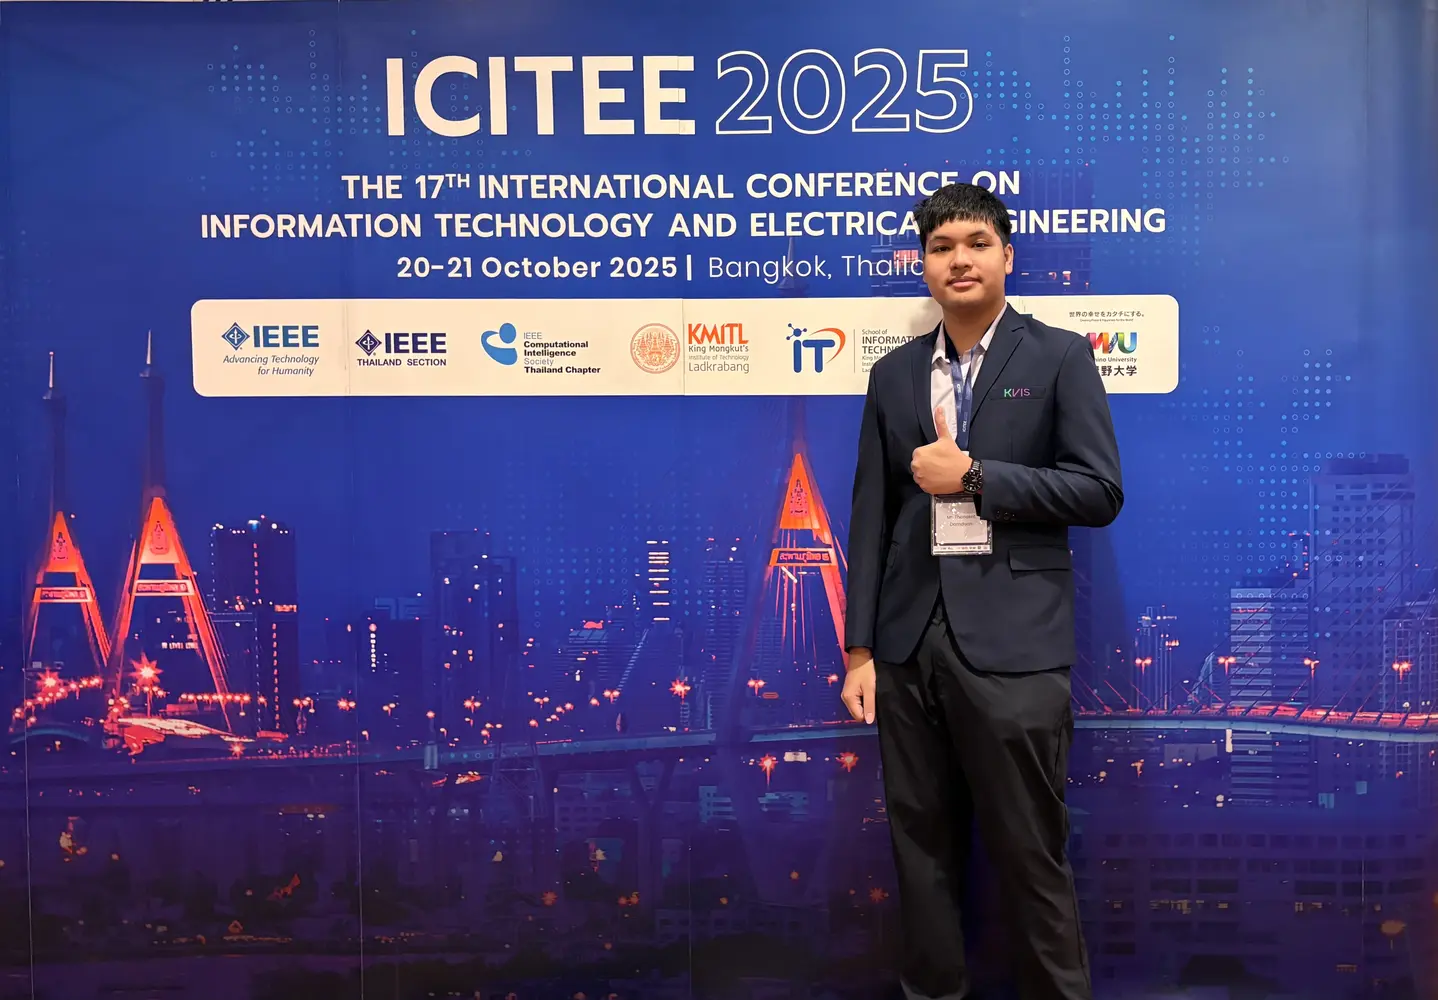
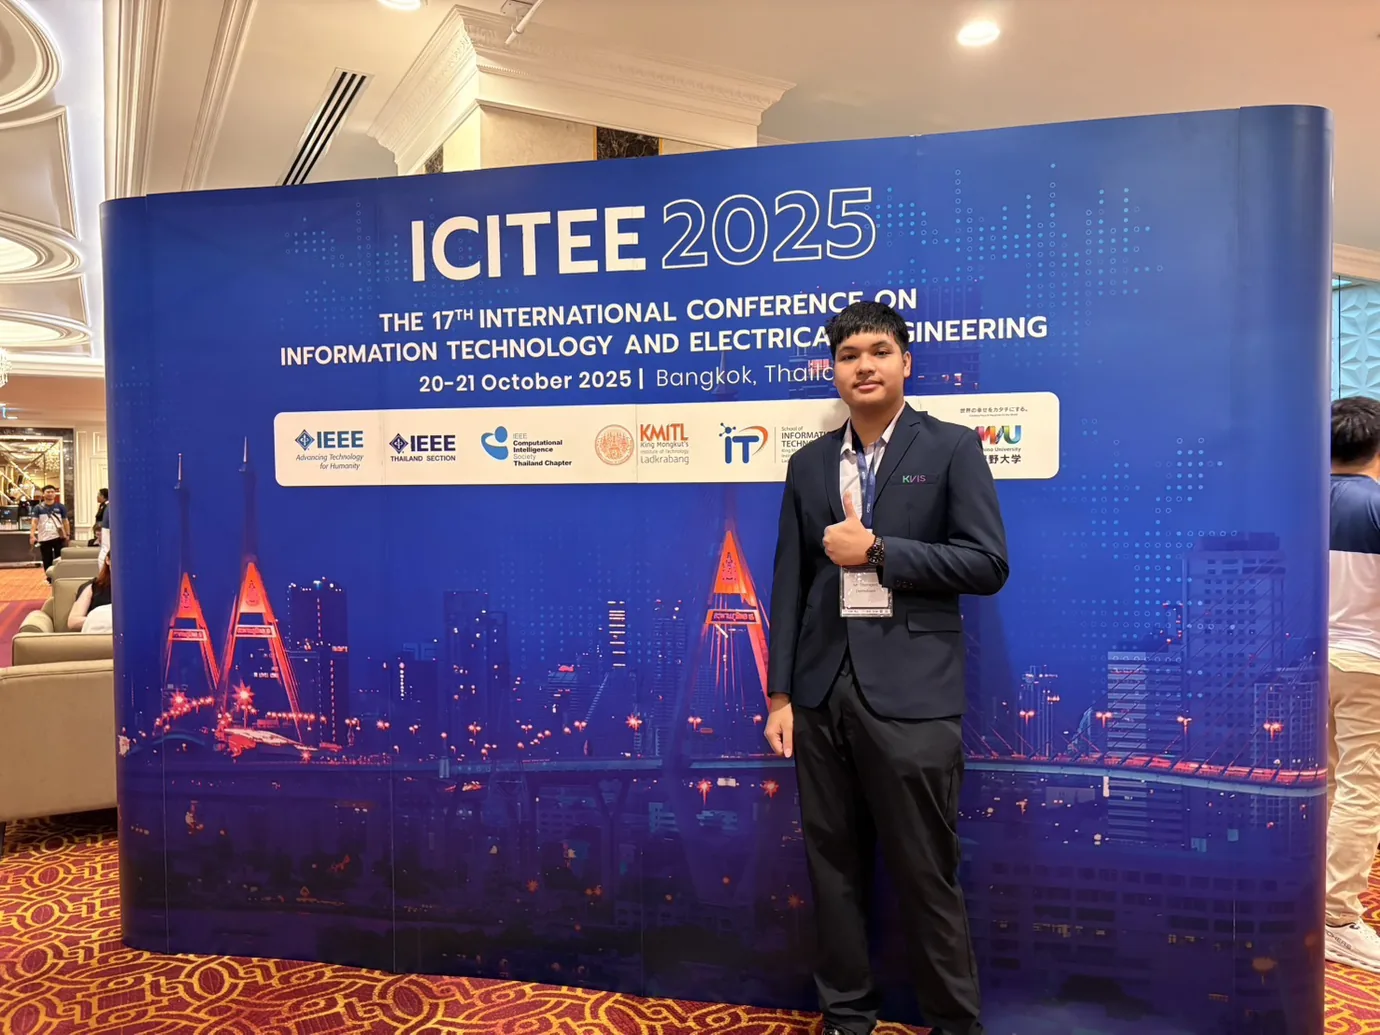
Showcase Lumineth, paginate work and refresh mGANs photos

diff --git a/content/journeys.js b/content/journeys.js
@@ -32,11 +32,11 @@ export const journeys = {
     role: "Pasatorn Soikiri and I share first authorship. I worked on the model that spots synthetic speech.",
     learned: "I learned to represent speech as mel spectrograms and use reconstruction errors to score how unusual a recording is. Comparing ROC AUC across two datasets showed me how much a detector’s performance can depend on the recordings it sees.",
     frames: [
-      { image: "mgans.svg", label: "Results", alt: "eD-AnoGAN scores of 0.9211 ROC AUC on WaveFake and 0.8428 on ASVspoof2019 LA", caption: "Closer to 1 is better. The score drops on a different set of recordings.", wide: true },
       { image: "mgans-paper-architecture.webp", label: "Model architectures", alt: "The paper’s published architectures for eD-AnoGAN and RES-MGANomaly", caption: "Model architectures from Figure 1. © 2025 IEEE.", wide: true },
       { image: "mgans-paper-reconstructions.webp", label: "Original and rebuilt audio", alt: "Input and reconstructed speech spectrograms for four model variants", caption: "Original and rebuilt sound patterns from Figure 3. © 2025 IEEE.", wide: true },
       { image: "mgans-talk.webp", label: "Presenting the work", alt: "ICITEE presentation with the model architecture on screen", caption: "Presenting the architecture at ICITEE 2025." },
-      { image: "mgans-venue.webp", label: "ICITEE 2025", alt: "Damduan Thanakrit beside the ICITEE conference backdrop", caption: "ICITEE 2025." },
+      { image: "mgans-venue.webp", label: "ICITEE 2025", alt: "Damduan Thanakrit beside the ICITEE conference backdrop", caption: "ICITEE 2025 in Bangkok." },
+      { image: "mgans-certificate.webp", label: "Presenter certificate", alt: "ICITEE 2025 certificate recognising Damduan Thanakrit as a presenter of the paper", caption: "Presenter certificate for the paper at ICITEE 2025.", wide: true },
     ],
   },
   sleeppilot: {
@@ -73,6 +73,16 @@ export const journeys = {
     learned: "I practised analysing clues, testing one hypothesis at a time, and sharing findings with teammates. The time limit taught me to recognise when to try a different approach or move to another challenge.",
     frames: [
       { image: "sentctf-certificate.webp", label: "Third-place certificate", alt: "Damduan Thanakrit’s SentCTF 2026 third-place certificate", caption: "My third-place certificate.", wide: true },
+    ],
+  },
+  lumineth: {
+    about: "Lumineth is a wearable prototype for people with visual impairments. A user can ask it to find an everyday object or describe what’s in front of them. The prototype combines a camera, a voice interface, and computer vision, with the wearable and server communicating over WebSockets.",
+    role: "Pasatorn Soikiri and I represented KVIS at SISTEMIC 2025. I presented our prototype, and our team earned bronze in the STEM Innovation Challenge.",
+    learned: "I learned how a wearable can communicate with a computer vision server in real time, and how to make features like finding objects usable through voice.",
+    frames: [
+      { image: "lumineth-demo.webp", label: "Live demonstration", alt: "A team member wearing the Lumineth headset while the team demonstrates the prototype to visitors", caption: "Demonstrating the wearable at SISTEMIC 2025.", wide: true },
+      { image: "lumineth-booth.webp", label: "Project booth", alt: "Two team members with the Lumineth headset and glove at the SISTEMIC project booth", caption: "Our team with the prototype at the project booth." },
+      { image: "lumineth-bronze.webp", label: "Bronze award", alt: "The Lumineth team accepting bronze on stage at SISTEMIC 2025", caption: "Bronze in the SISTEMIC STEM Innovation Challenge." },
     ],
   },
 };

diff --git a/app/gallery.jsx b/app/gallery.jsx
@@ -2,16 +2,45 @@
 
 import { sitePath } from "../content/site-path";
 
-import { useState } from "react";
-import { projects } from "../content/projects";
+import { useEffect, useState } from "react";
+import { projects, workPagePath, workPageSize } from "../content/projects";
+
+const pageCount = Math.ceil(projects.length / workPageSize);
+
+function pageFromLocation() {
+  const page = Number(new URLSearchParams(window.location.search).get("page"));
+  return Number.isInteger(page) && page >= 1 && page <= pageCount ? page : 1;
+}
 
 export default function Gallery() {
   const [view, setView] = useState("Gallery");
+  const [page, setPage] = useState(1);
+  const start = (page - 1) * workPageSize;
+  const end = Math.min(start + workPageSize, projects.length);
+  const range = start + 1 === end ? end : [start + 1, end].join("–");
+
+  useEffect(() => {
+    const syncPage = () => setPage(pageFromLocation());
+    syncPage();
+    window.addEventListener("popstate", syncPage);
+    return () => window.removeEventListener("popstate", syncPage);
+  }, []);
+
+  function changePage(event, nextPage) {
+    if (event.metaKey || event.ctrlKey || event.shiftKey || event.altKey) return;
+    event.preventDefault();
+    if (nextPage === page) return;
+
+    window.history.pushState(null, "", event.currentTarget.href);
+    setPage(nextPage);
+    document.getElementById("work-title").focus({ preventScroll: true });
+    document.getElementById("work").scrollIntoView();
+  }
 
   return (
     <section id="work" aria-labelledby="work-title">
       <header className="sectionhead">
-        <h2 id="work-title">Selected work</h2>
+        <h2 id="work-title" tabIndex={-1}>Selected work</h2>
         <fieldset className="view">
           <legend>Project view</legend>
           {["Gallery", "List"].map((name) => (
@@ -27,7 +56,7 @@ export default function Gallery() {
         </fieldset>
       </header>
       <ul className={view === "List" ? "catalog list" : "catalog"}>
-        {projects.map((project) => (
+        {projects.slice(start, end).map((project) => (
           <li key={project.slug}>
             <a className="project" href={sitePath(`/work/${project.slug}/`)}>
               <figure className={`cover ${project.slug}`}>
@@ -41,6 +70,25 @@ export default function Gallery() {
           </li>
         ))}
       </ul>
+      {pageCount > 1 && (
+        <nav className="work-pagination" aria-label="Selected work pages">
+          <p role="status">{range} of {projects.length} projects</p>
+          <ul>
+            {Array.from({ length: pageCount }, (_, index) => index + 1).map((number) => (
+              <li key={number}>
+                <a
+                  href={sitePath(workPagePath(number))}
+                  aria-label={`Page ${number}`}
+                  aria-current={page === number ? "page" : undefined}
+                  onClick={(event) => changePage(event, number)}
+                >
+                  {number}
+                </a>
+              </li>
+            ))}
+          </ul>
+        </nav>
+      )}
     </section>
   );
 }

diff --git a/app/detail.css b/app/detail.css
@@ -21,6 +21,7 @@
   gap: 1.5rem;
   margin-block: 2rem 3rem;
 }
+.journey.lumineth { grid-template-columns: minmax(0, 1fr) minmax(0, 1.85fr); }
 .journey-frame {
   background: var(--frame-surface, var(--surface));
   padding: clamp(.75rem, 2vw, 1.75rem);
@@ -59,6 +60,7 @@
 .cover.gokila { --cover-surface: #d4e5df; }
 .cover.sentctf { padding: 0; --cover-surface: #dce7f0; }
 .cover.sentctf img { object-position: center 52%; box-shadow: none; }
+.cover.lumineth { --cover-surface: #e6d4d7; }
 .cv { max-width: 67rem; }
 .cv h1 { font-size: clamp(2.9rem, 7vw, 6rem); }
 .cv-grid {
@@ -220,6 +222,7 @@
 [data-project="luckdee"] { --showcase-surface: #f0e5c8; --showcase-accent: #816036; }
 [data-project="gokila"] { --showcase-surface: #d4e5df; --showcase-accent: #167267; }
 [data-project="sentctf"] { --showcase-surface: #dce7f0; --showcase-accent: #2e5c83; }
+[data-project="lumineth"] { --showcase-surface: #e6d4d7; --showcase-accent: #813b59; }
 @media (max-width: 700px) {
   .showcase-index ul { grid-template-columns: repeat(auto-fit, minmax(min(100%, 6rem), 1fr)); }
   .showcase-index a { font-size: .8rem; }
@@ -240,6 +243,7 @@
   .cover.luckdee, [data-project="luckdee"] { --project-mat: #6c532b; }
   .cover.gokila, [data-project="gokila"] { --project-mat: #325e4c; }
   .cover.sentctf, [data-project="sentctf"] { --project-mat: #335d7a; }
+  .cover.lumineth, [data-project="lumineth"] { --project-mat: #694251; }
   .cover,
   .case[data-project] :is(.plate, .journey-frame, .showcase-index img) {
     background: var(--project-mat, var(--surface));

diff --git a/app/work/[slug]/page.jsx b/app/work/[slug]/page.jsx
@@ -1,5 +1,5 @@
 import { sitePath } from "../../../content/site-path";
-import { projects, bySlug } from "../../../content/projects";
+import { projects, bySlug, workPagePath, workPageSize } from "../../../content/projects";
 import { journeys } from "../../../content/journeys";
 import ModelFigure from "./model-figure";
 
@@ -47,11 +47,13 @@ function Frame({ frame, className = "", lead = false }) {
 export default async function Project({ params }) {
   const project = bySlug((await params).slug);
   const journey = journeys[project.slug];
-  const next = projects[(projects.indexOf(project) + 1) % projects.length];
+  const index = projects.indexOf(project);
+  const next = projects[(index + 1) % projects.length];
+  const galleryPage = Math.floor(index / workPageSize) + 1;
 
   return (
     <main id="main" className="case" data-project={project.slug}>
-      <a className="back" href={sitePath("/#work")}>All work</a>
+      <a className="back" href={sitePath(workPagePath(galleryPage))}>All work</a>
       <header>
         <small>{project.tag}</small>
         <h1>{project.name}</h1>

diff --git a/app/page.jsx b/app/page.jsx
@@ -31,7 +31,7 @@ export default function Home() {
             <dt>2026</dt><dd><strong><a href={sitePath("/work/sentctf/")}>SentCTF</a></strong>Third prize with Team RIPGREP at NTU.</dd>
             <dt>2026</dt><dd><strong>WorkBuddy “Age Well” hackathon</strong>Kampung Quest, AI Agent / Skills track.</dd>
             <dt>2026</dt><dd><strong>ExpresSo NB</strong>Venture Building &amp; Lab engineering intern.</dd>
-            <dt>2025</dt><dd><strong>SISTEMIC</strong>Bronze for Lumineth, a voice-operated object locator for people with visual impairments.</dd>
+            <dt>2025</dt><dd><strong><a href={sitePath("/work/lumineth/")}>SISTEMIC</a></strong>Bronze for Lumineth, a voice-operated object locator for people with visual impairments.</dd>
             <dt>2025</dt><dd><strong><a href={sitePath("/high-school/#open-house")}>KVIS Open House</a></strong>Led the team behind a registration scanner for around 2,500 participants.</dd>
           </dl>
           <a className="school-link" href={sitePath("/high-school/")}>

diff --git a/content/projects.js b/content/projects.js
@@ -87,5 +87,24 @@ export const projects=[
     caption: "The SentCTF awards at NTU.",
     summary: "Third place at NTU’s cybersecurity competition with Team RIPGREP.",
   },
+  {
+    slug: "lumineth",
+    name: "Lumineth",
+    tag: "Assistive technology",
+    image: "lumineth-headset.webp",
+    label: "Wearable prototype",
+    alt: "The Lumineth camera headset mounted on a mannequin",
+    caption: "The camera headset from the Lumineth prototype.",
+    summary: "A voice-operated wearable prototype that helps people with visual impairments find objects and understand their surroundings.",
+    url: "https://sites.google.com/moe.edu.sg/sistemic25/voyager/challenges/stem-innovation-challenge",
+    link: "See SISTEMIC results"
+  },
 ];
+
+export const workPageSize = 8;
+
+export function workPagePath(page) {
+  return page === 1 ? "/#work" : `/?page=${page}#work`;
+}
+
 export const bySlug = (slug) => projects.find((project) => project.slug === slug);

diff --git a/app/cv/page.jsx b/app/cv/page.jsx
@@ -51,7 +51,7 @@ export default function CV() {
             <Entry title="Thailand New Gen Inventors Award, 2025">National silver and Popular Vote for a food-allergy warning tool.</Entry>
             <Entry title="Siriraj Mathematics and Science Aptitude Test, 2024">Second runner-up among 1,303 teams.</Entry>
             <Entry title="SentCTF 2026" href="/work/sentctf/">Third prize with Team RIPGREP at NTU.</Entry>
-            <Entry title="SISTEMIC 2025">Bronze for Lumineth, a voice-operated object locator for people with visual impairments.</Entry>
+            <Entry title="SISTEMIC 2025" href="/work/lumineth/">Bronze for Lumineth, a voice-operated object locator for people with visual impairments.</Entry>
           </CvSection>
           <CvSection id="extracurricular" title="Extracurricular programs">
             <Entry title="ODOS digital skills scholarship, 2026">

diff --git a/app/global.css b/app/global.css
@@ -215,6 +215,34 @@ h1 {
   list-style:none;
   padding:0;
 }
+.work-pagination {
+  align-items:center;
+  justify-content:space-between;
+  gap:1rem;
+  margin-top:1.6rem;
+  padding-top:1rem;
+  border-top:1px solid var(--rule);
+  color:var(--mute);
+  font:.875rem var(--mono);
+}
+.work-pagination ul {
+  display:flex;
+  gap:.45rem;
+  padding:0;
+  list-style:none;
+}
+.work-pagination a {
+  display:grid;
+  place-items:center;
+  min-width:2.75rem;
+  min-height:2.75rem;
+  border:1px solid var(--rule);
+}
+.work-pagination a[aria-current=page] {
+  background:var(--ink);
+  border-color:var(--ink);
+  color:var(--paper);
+}
 .cover {
   aspect-ratio:1.78;
   display:grid;
